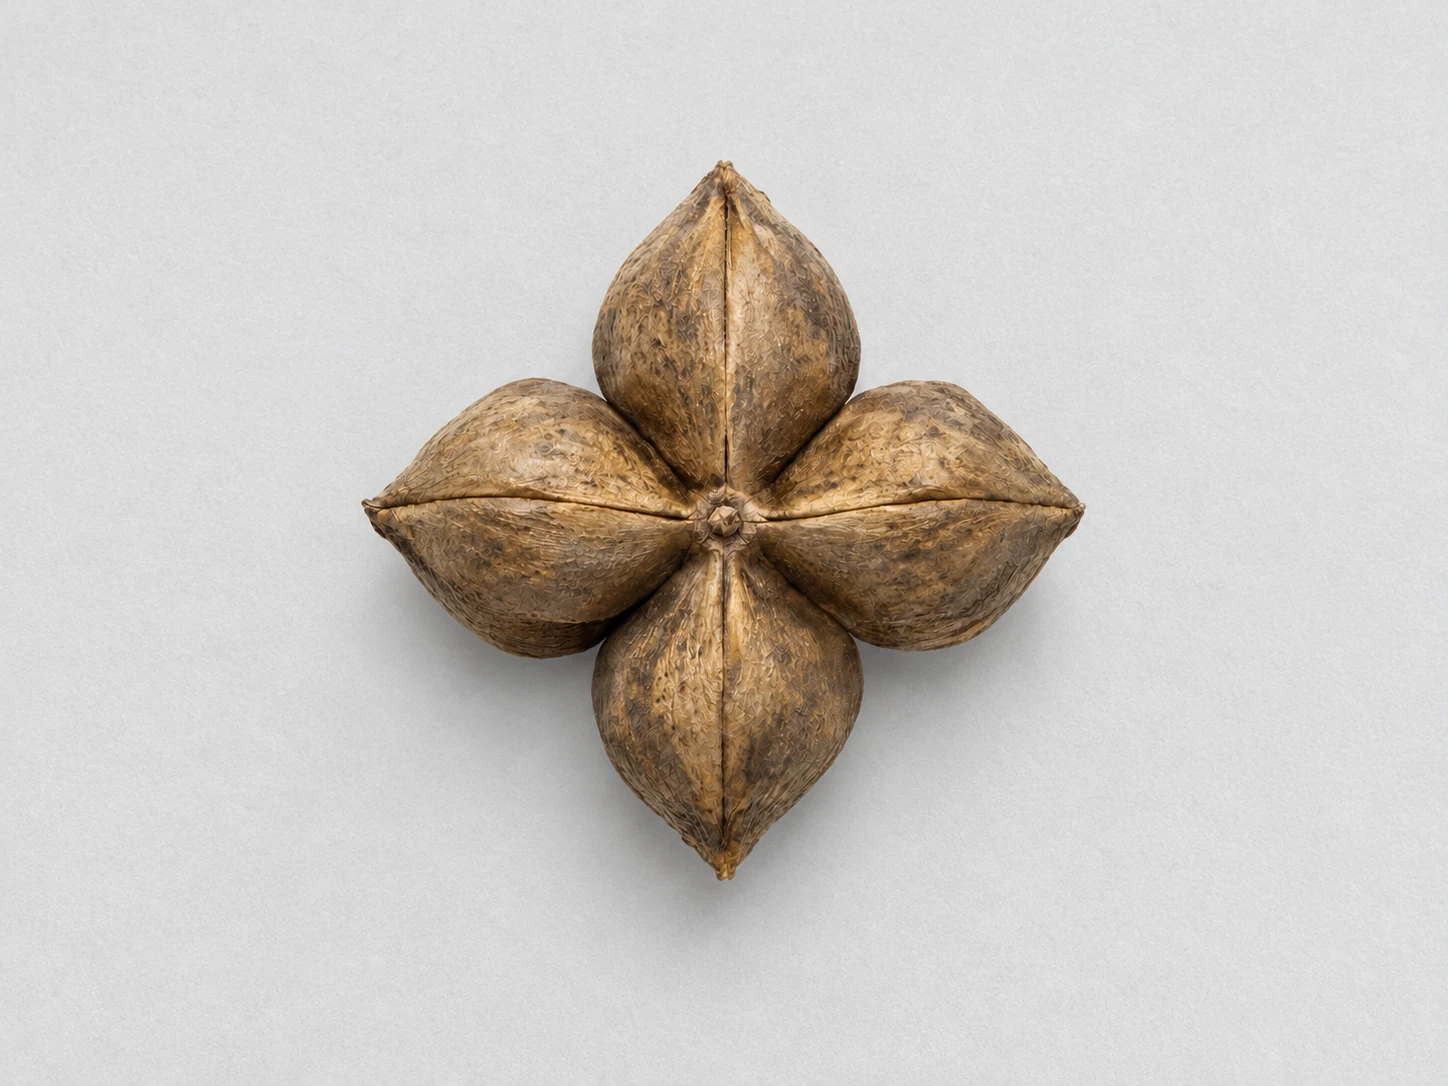
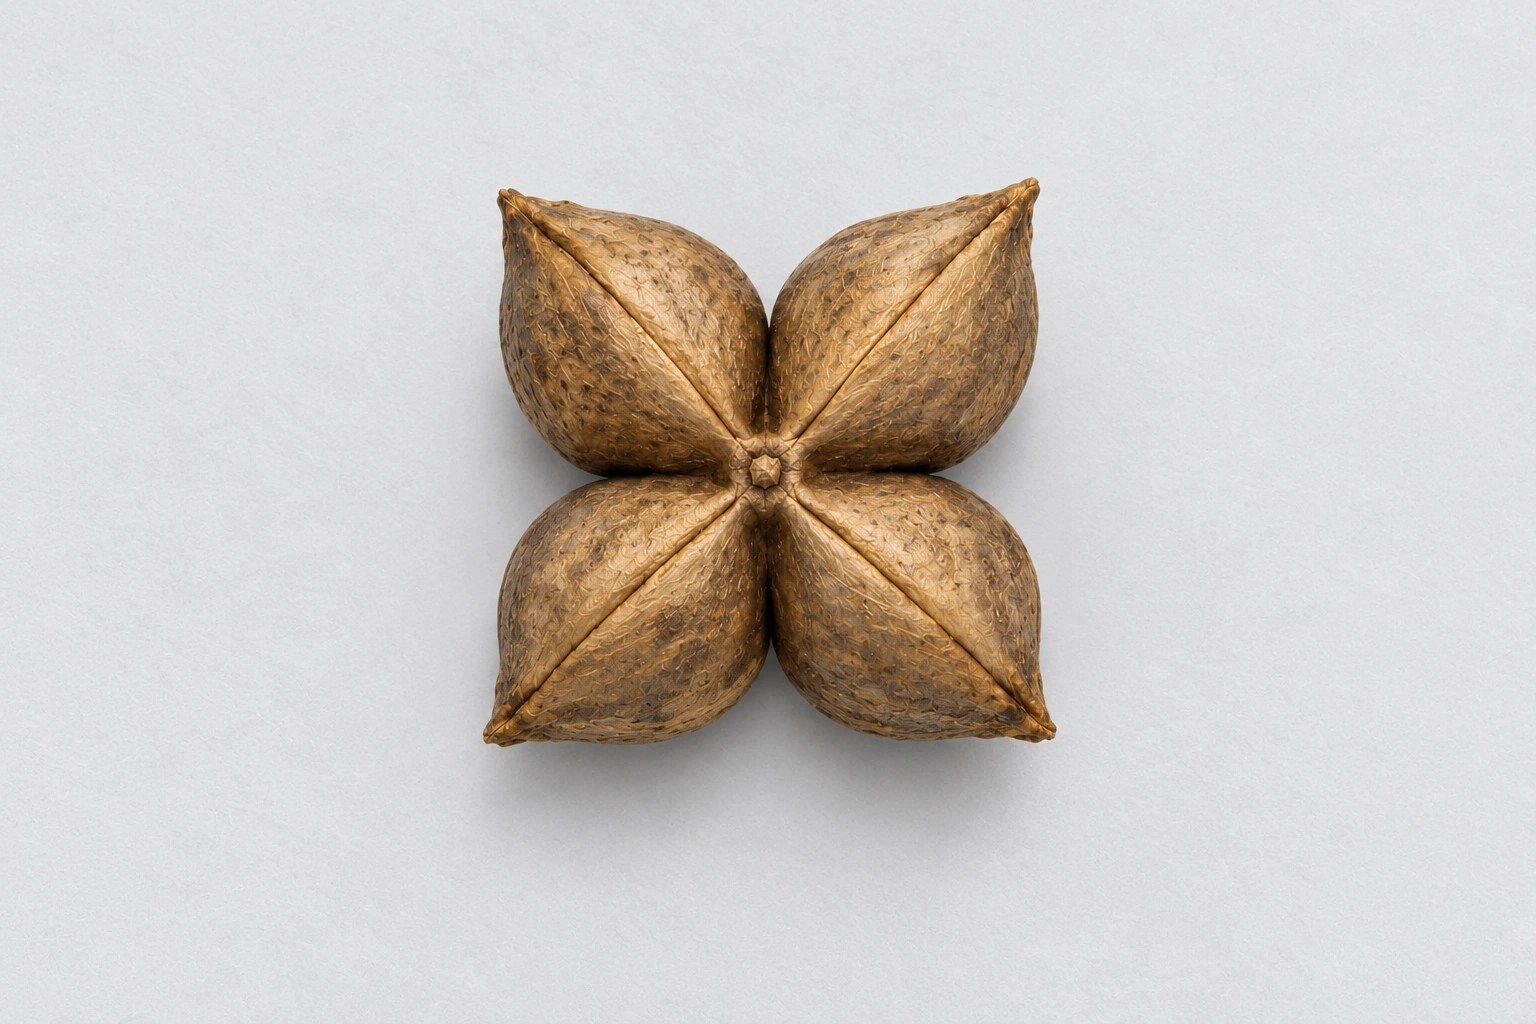
Use diagonal sacha inchi pod in compact Cloud-sized landscape frame

Changed region(s): [[0.2486, 0.1562, 0.7459, 0.875]]

diff --git a/assets/inchy-lovable.css b/assets/inchy-lovable.css
@@ -111,12 +111,3 @@ a:focus-visible, button:focus-visible, summary:focus-visible, input:focus-visibl
     text-wrap: nowrap;
   }
 }
-
-/* Rotate the original origin photograph exactly 90 degrees clockwise. */
-#MainContent .lovable-origin-rotated { position: relative; aspect-ratio: 3 / 4; overflow: hidden; }
-#MainContent .lovable-origin-rotated img {
-  position: absolute; left: 50%; top: 50%;
-  width: 133.333333%; height: 75%; max-width: none;
-  object-fit: contain;
-  transform: translate(-50%, -50%) rotate(90deg);
-}
